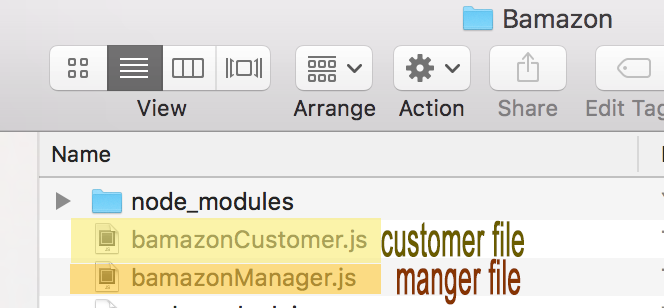
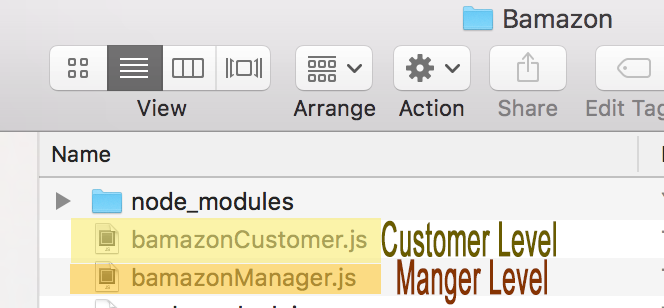
updating Readme with stmt of purpose and instructions

Changed region(s): [[0.5723, 0.7013, 0.8434, 0.9643]]

diff --git a/README.md b/README.md
@@ -1,59 +1,59 @@
 # Bamazon
 **GETTING STARTED**:
+1. Clone the repo: **https://github.com/viviann224/Bamazon.git**
+2. In Terminal/Bash in the Bamazon file (location where the **README.md** is located) initialize the npm file via "npm install"
+3. Run either the Customer Level or the Manager Level js file via Terminal/Bash
+    * for **Customer Level** in Terminal/Bash type in "node bamazonCustomer.js"
+    * for **Manger Level** in Terminal/Bash type in "node bamazonManager.js"
+
 The program should run automatically.
 
 If the program is not running automatically, please make sure you have all the prerequisites listed below.
 
 **STATEMENT OF PURPOSE**:
-BAMAZON is a store like Amazon where the program runs on Node.js and uses the SQL database. Here at BAMAZON there are two modes, a customer and a manager level.
+**BAMAZON** is a store like Amazon where the program runs on Node.js and uses the SQL database. **BAMAZON**  will take orders from the customers and update the stock from the store's inventory.
 
-<p align="center">  <img height="100" src="/readMeImg/files.png" alt="choices"></p>
+**BAMAZON** was created showcases the use of a SQL database  in a Node.js enviroment to reflect real life applications of database management skills and advanced level user input validation via npm package inquirer. **BAMAZON** has two level of use, a public level which is the "Customer Level" where the user  can buy items in the inventory and a "Manager Level" where the user can view the items for sale, view items that is low in inventory, the capability to update the inventory amount, and create a new item into the inventory.
+
+**PREREQUISITES**:
+- SQL Database (perfered on Sequel Pro)
+- Node.js
+- JavaScript
+- Terminal / Bash / command line prompt
+- Capability to run files in package.json (inquirer, mysql)
+- Perfered viewing in English language :us:
+
+**HOW TO USE**:
+Here at **BAMAZON**  there are two modes, a customer and a manager level.
+<p align="center">  <img height="200" src="/readMeImg/files.png" alt="choices"></p>
 
 
 Customer Level | Manager Level
 ------------ | -------------
 **Main Menu:** Lets the user either BUY or QUIT |  **Main Menu:** Lets the user  View Products for Sale, View Low Inventory, Add to inventory, Add New Products, or QUIT
- **BUY:** asks user which item and quantity from inventory to buy if in stock a bill is created else tells user not enough in stock | **View Products for Sale:** displays the current products in the database
- lets user buy an item  |   **View Low Inventory:** displays all items in the database that contains at least 5 eaches in stock
- **QUIT** allows the user to terminate the program  | **Add to Inventory:** updates an current item by how much the user wants to give/take
- |  **Add New Product:** allows the user to create new item into inventory with an id, name, department, price, and quantity
- |  **QUIT** allows the user to terminate the program
+**BUY:** asks user which item and quantity from inventory to buy if in stock a bill is created else tells user not enough in stock | **View Products for Sale:** displays the current products in the database
+lets user buy an item  |   **View Low Inventory:** displays all items in the database that contains at least 5 eaches in stock
+**QUIT** allows the user to terminate the program  | **Add to Inventory:** updates an current item by how much the user wants to give/take
+|  **Add New Product:** allows the user to create new item into inventory with an id, name, department, price, and quantity
+|  **QUIT** allows the user to terminate the program
 
 
- 
+
 **Customer Level**
 > **BUY:** The inventory will display with the corresponding an id, name, department, price, and quantity then the user will be asked a list of items to choose from. Once picked, the user will be prompted with a question for quantity. Once the user finishes the inputs, the program will look into the database to determine a total bill or not enough in inventory then will go to the main menu for main options
 >
 > **QUIT:** Allows the user to terminate the program
- 
-Aller-Jeeves is a food application created to help alleviate the stress felt by individuals and families with dietary and/or allergy restrictions. Whether it is to find something new and delicious or wanting to find recipes for everyone to enjoy together. Next time someone ask what can you eat, introduce them to Aller-Jeeves, where our recipes will meet your needs.
 
-Aller-Jeeves was created to showcases the use of APIs from Yummly and Neutrino by pulling AJAX requests to create Aller-Jeeves. Learning to use JavaScript Animation, Anime JS, and deploying from Firebase Database. Aller-Jeeves is a group effort to provide a polished UI and specific search options for the user.
-
-Aller-Jeeves contains recipe cards with the recipes, a picture of the dish, and a bookmarking options (when the user logs in) on the front of the card. When the user clicks on the recipe the card flips over to the back to display a list of ingredients and a button linked to the recipe.
-
-**PREREQUISITES**:
-- Google Chrome Internet Browser
-- jQuery enabled on Google Chrome
-- JavaScript Animation
-- JavaScript enabled on Google Chrome
-- Access to Google Font packages
-- Access to Yummly and Neutrino API
-- Access to Firebase database
-- CDN support on Bootstrap
-- Perfered viewing in English language :us:
-
-**HOW TO USE**:
-Once pages loads, the user is able to search for recipes by the name of a specific recipe or recipes containing a certain ingredient. The user also has the ability to further narrow down the search by checking the optional checkboxes based on any allergy and/or dietary restrictions.
-
-The results are then displayed on cards with the name of the recipe, an image of the recipe dish, and a bookmark button option once the user logs in. Once the user clicks on the recipe card, the card will flip over to the back where a list of the ingredients are displayed with a button.
-
-If the user clicks the button on the back of the card, a new tab will open and take the user to the  original source of the recipe where a detailed set of cooking instructions are available to the user.
-
-If the user logs into Gmail, they will have the ability to save specific recipe cards by clicking on the fork and knife icon. Those cards are stored in their bookmarks and can be reviewed at another time by clicking on the bookmark button at the top of the page.
-In addition to the amazing recipes, in the top right of the page, there is a "Conversion Table"! This allows the user to further customize their cooking experience by modifying ingredient amounts, with respect to volume and mass, for precise measurements that meet their needs.
-
-If the user wants to search for a different recipe, there is a search box, followed by a dropdown menu for the dietary/allergy restrictions, and a submission button to initiate a new search. This will become the main page for the user's interaction for recipe requests after the first search request is complete.
+**Manger Level**
+>**View Products for Sale:** Reads data from the SQL database and displays all items from the database with an associated  id, name, department, price, and quantity.
+>
+>**View Low Inventory:** Reads the data from the SQL database and looks at each item's quantity. if the item's quanity is at least 5, then the item is displayed with the associated id, name, department, price, and quantity.
+>
+>**Add to Inventory:** The user will choose a list of re-exsisting data from the SQL database of items and gives the user an option to update the current inventory for the specified database.
+>
+>**Add New Product:** the program will ask for a new item request. The user will input an item request, the program checks the requested item against the current database to see if the item already exsists. The user will continue to prompt until there is a new item. If the item is new, then the user will be prompted with which department the item belongs, what is the associated price of the item, and how much is in the inventory for the item.
+>
+> **QUIT:** Allows the user to terminate the program
 
 **BUILT WITH**:
 - Sublime Text
